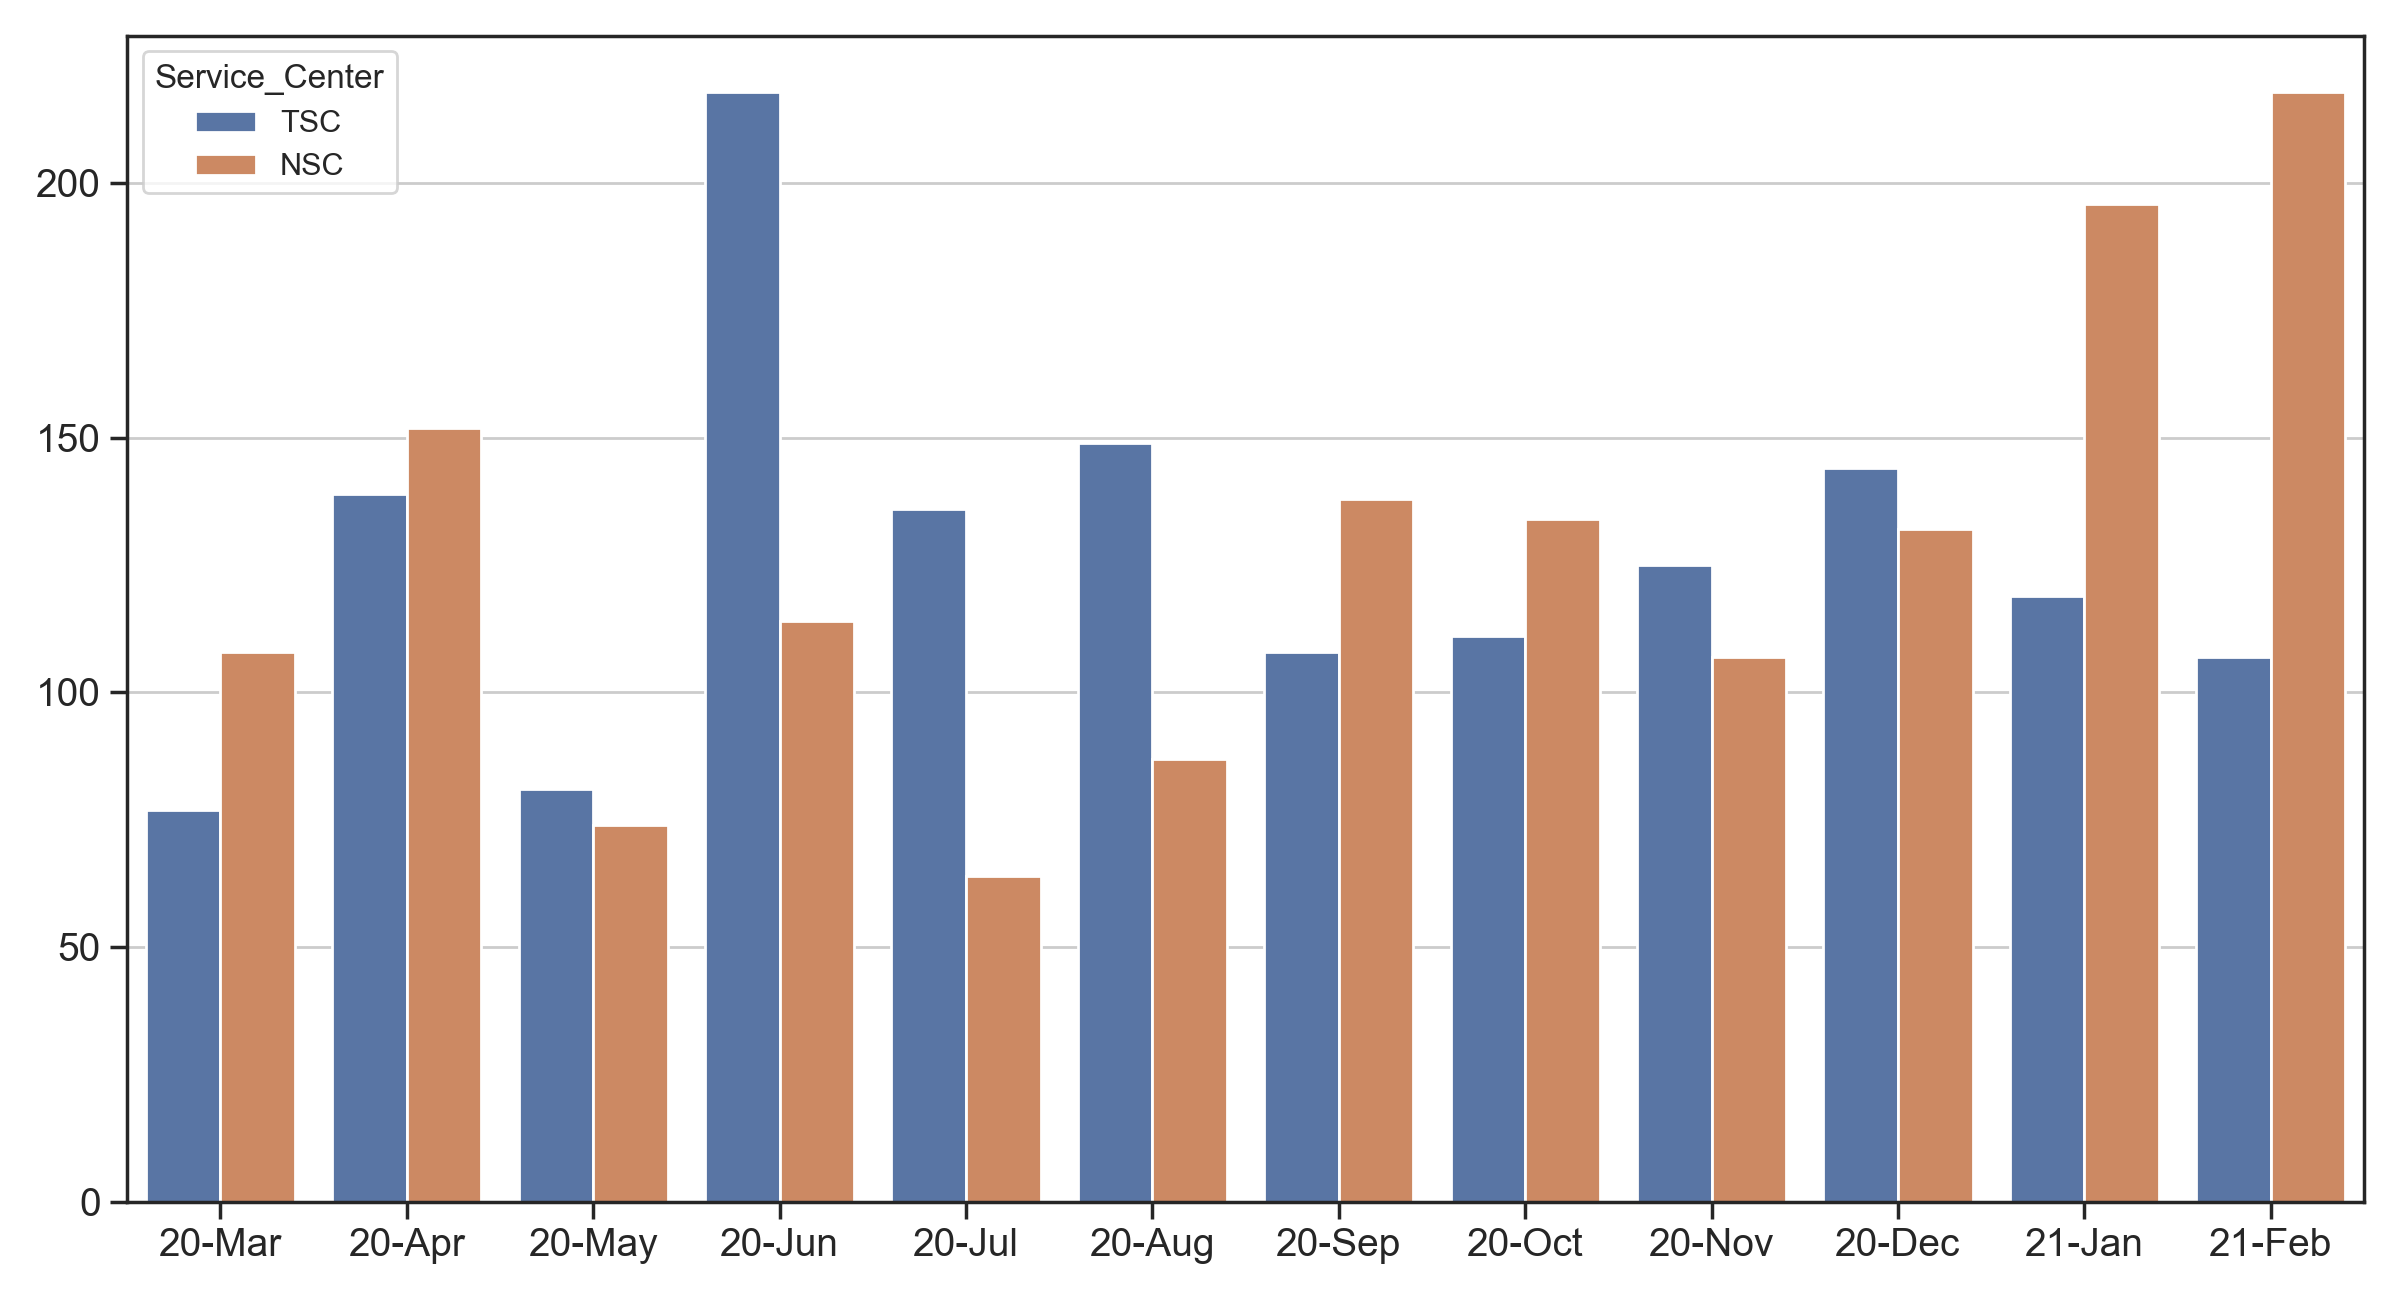
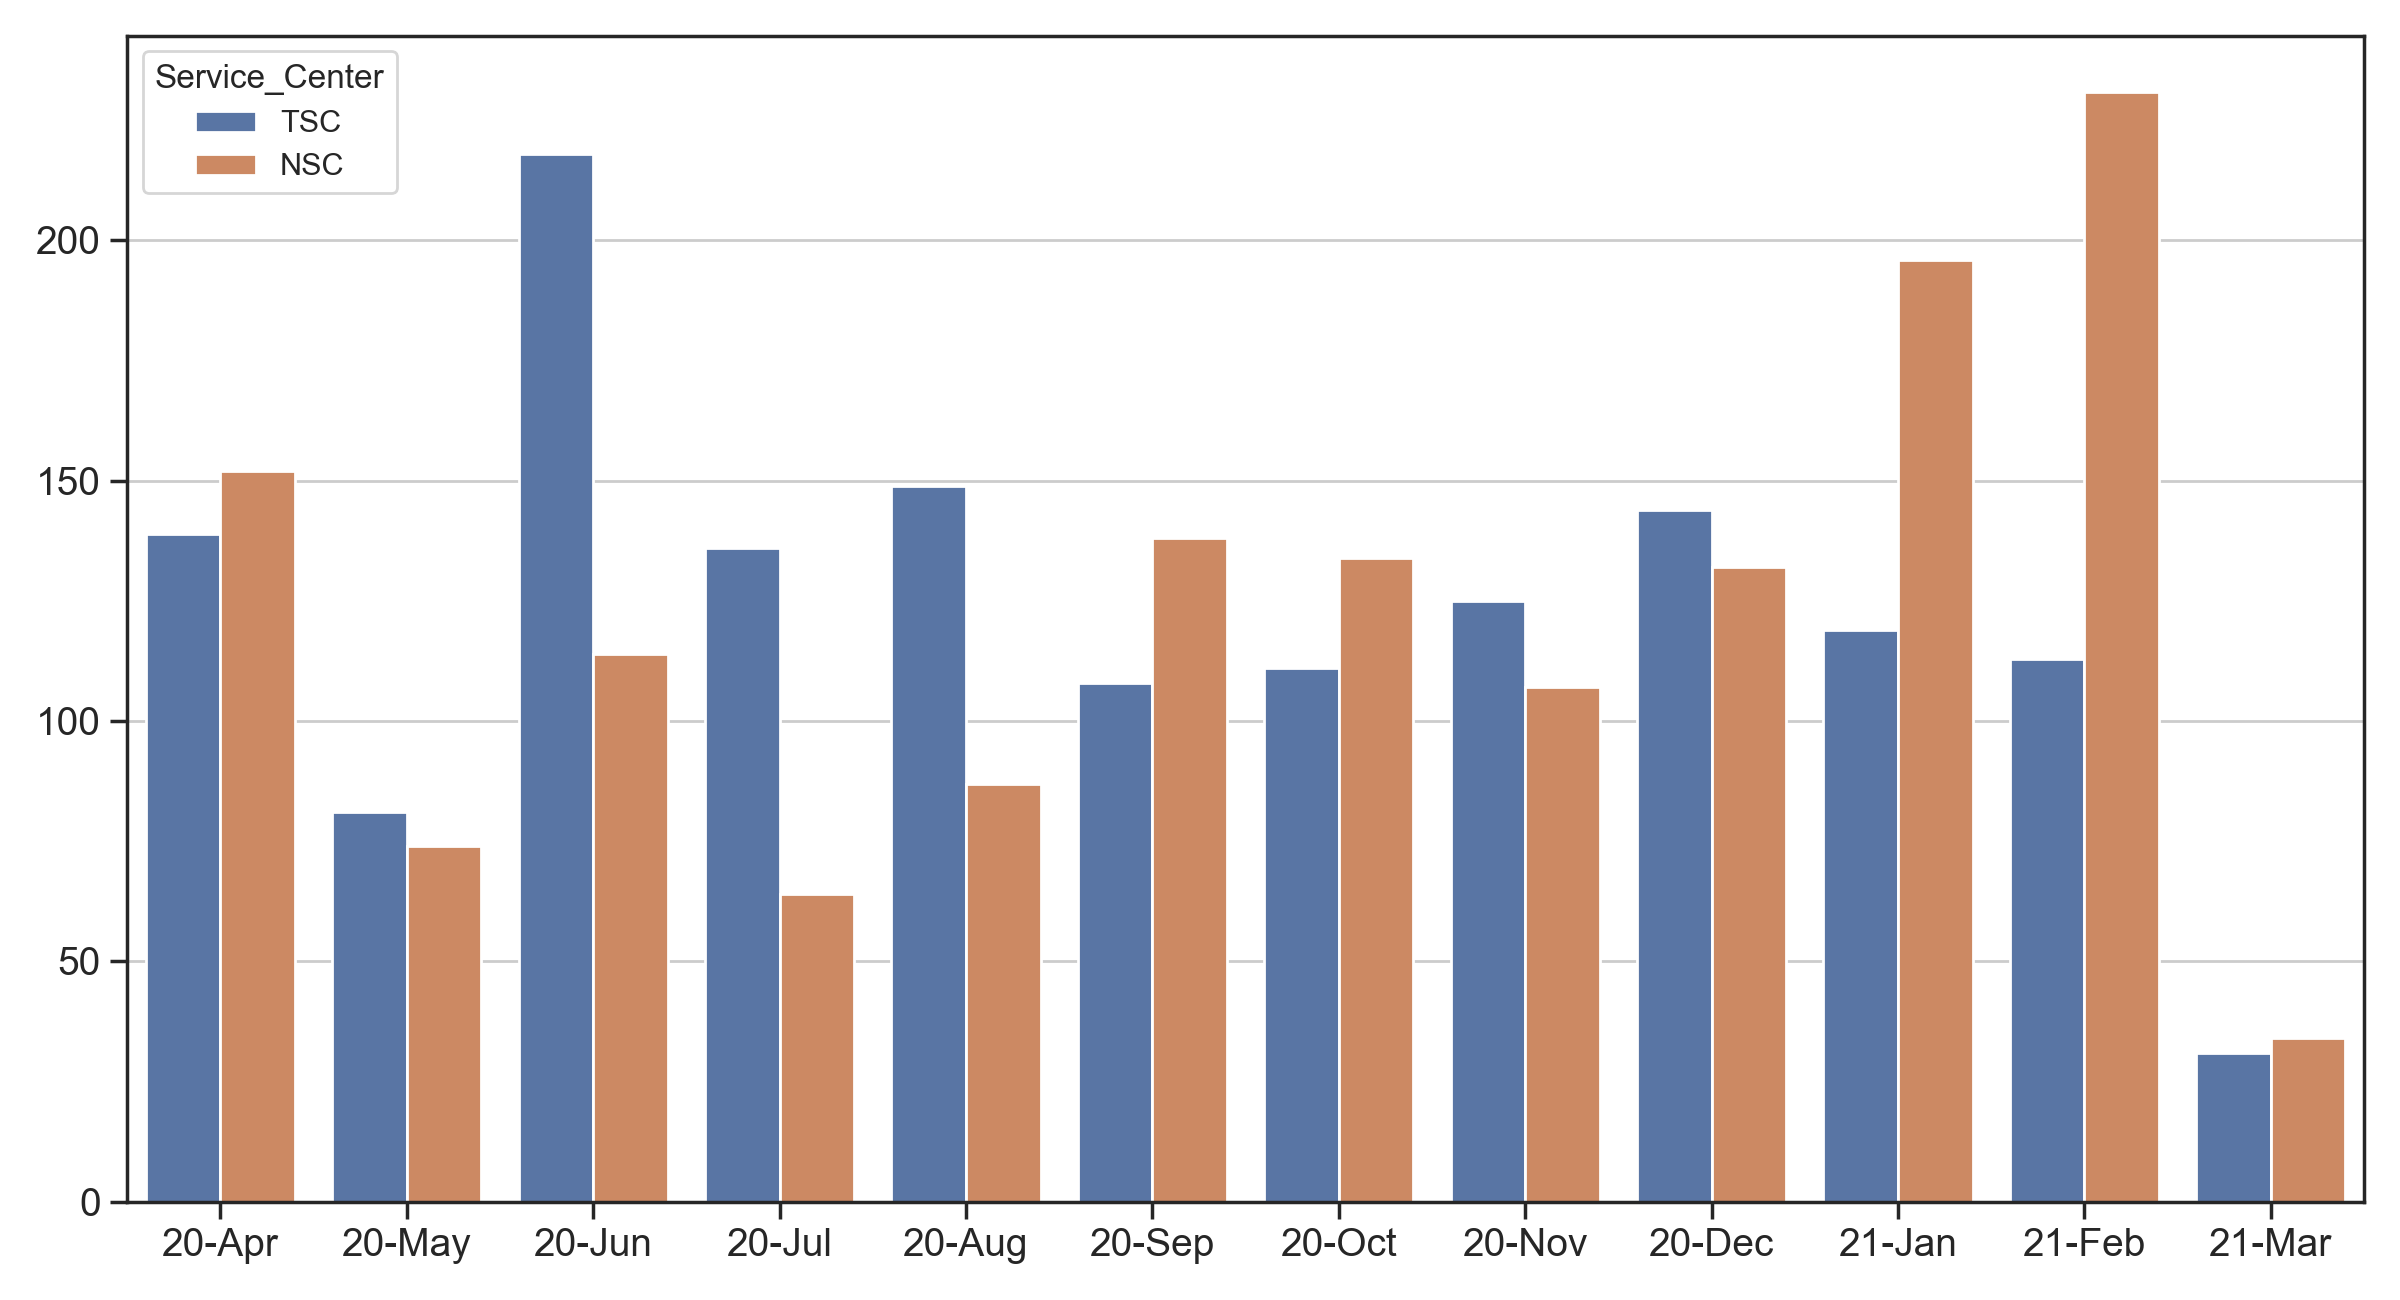
mar-29 update

diff --git a/README.md b/README.md
@@ -1,4 +1,4 @@
-## National Interest Waiver Wait Time, updated Mar-26-2021 
+## National Interest Waiver Wait Time, updated Mar-29-2021 
 * If you wish to join our Telegram action group, which hopes to bring attention to the crisis-level delay of NIW case processing at TSC, please [fill out this form](https://docs.google.com/forms/d/194Vp6uimucdul6iqtNFB1HSKz_z75RKsQ-cp3z7f8YY/viewform?edit_requested=true).
  
 USCIS Employment-based-2 NIW I-140 wait time before approval (data source: [Victoria Chen](https://www.wegreened.com/eb1_niw_approvals)). 
